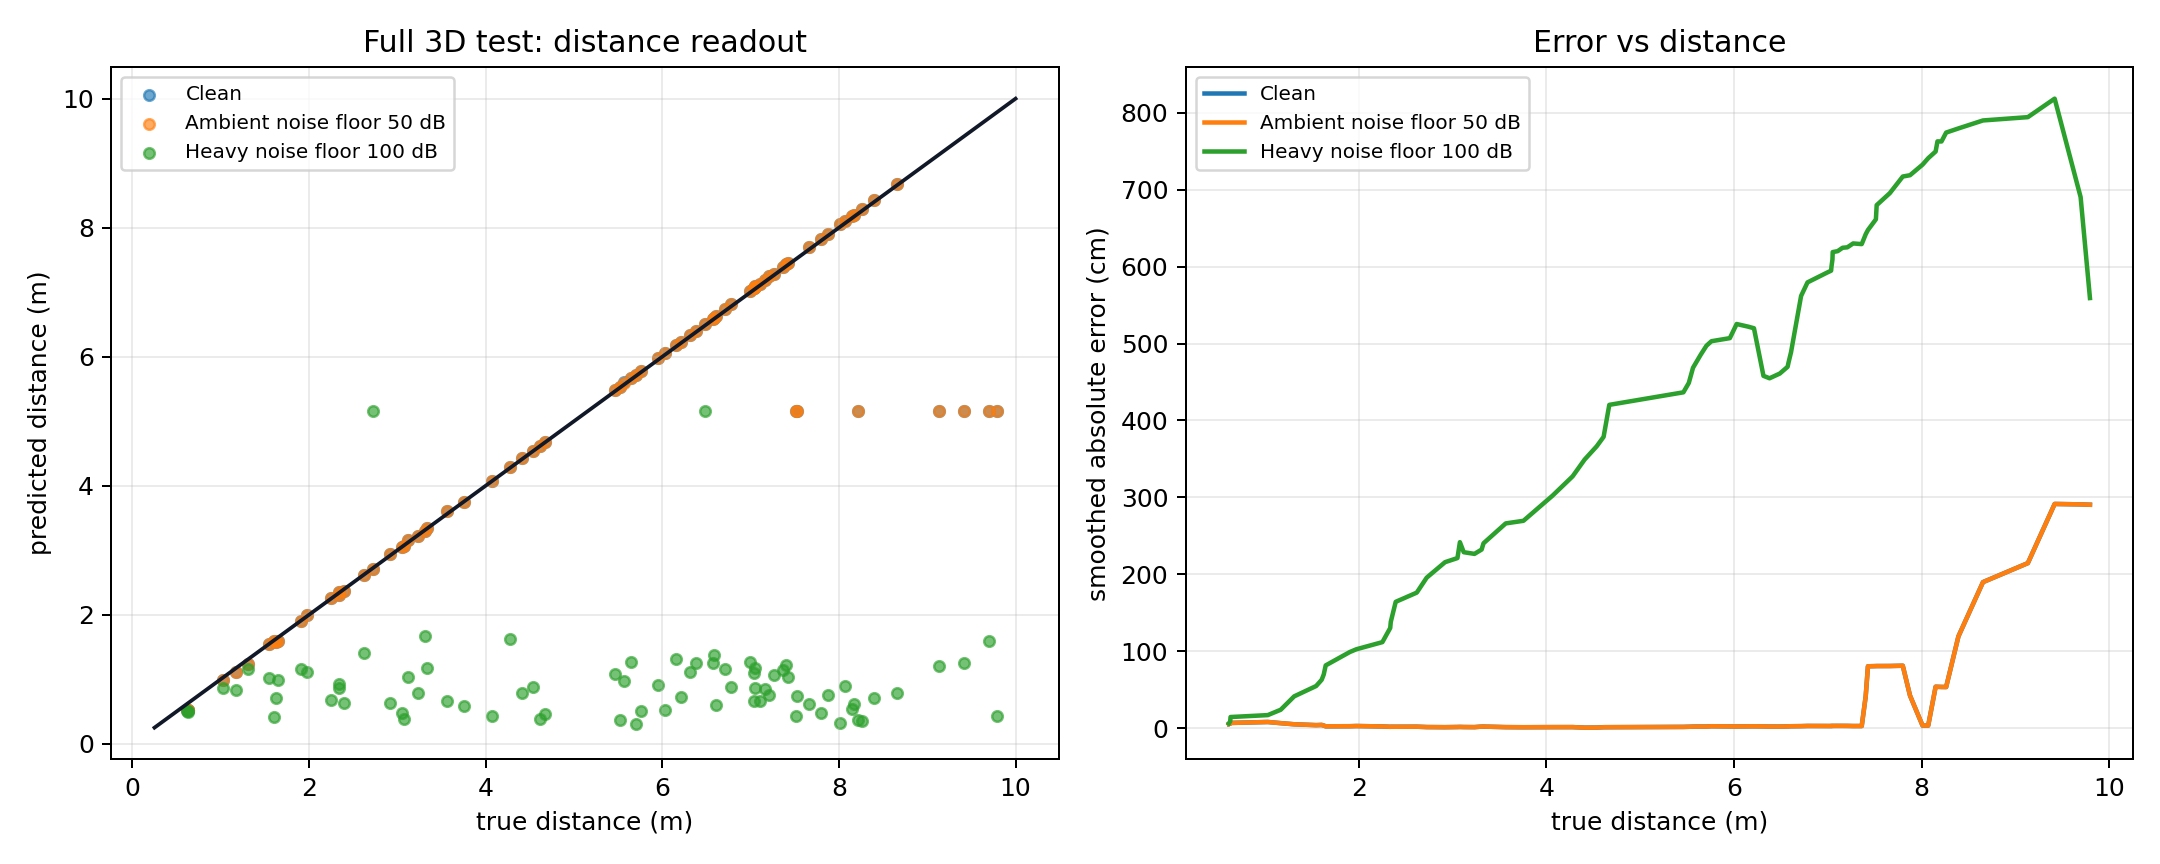
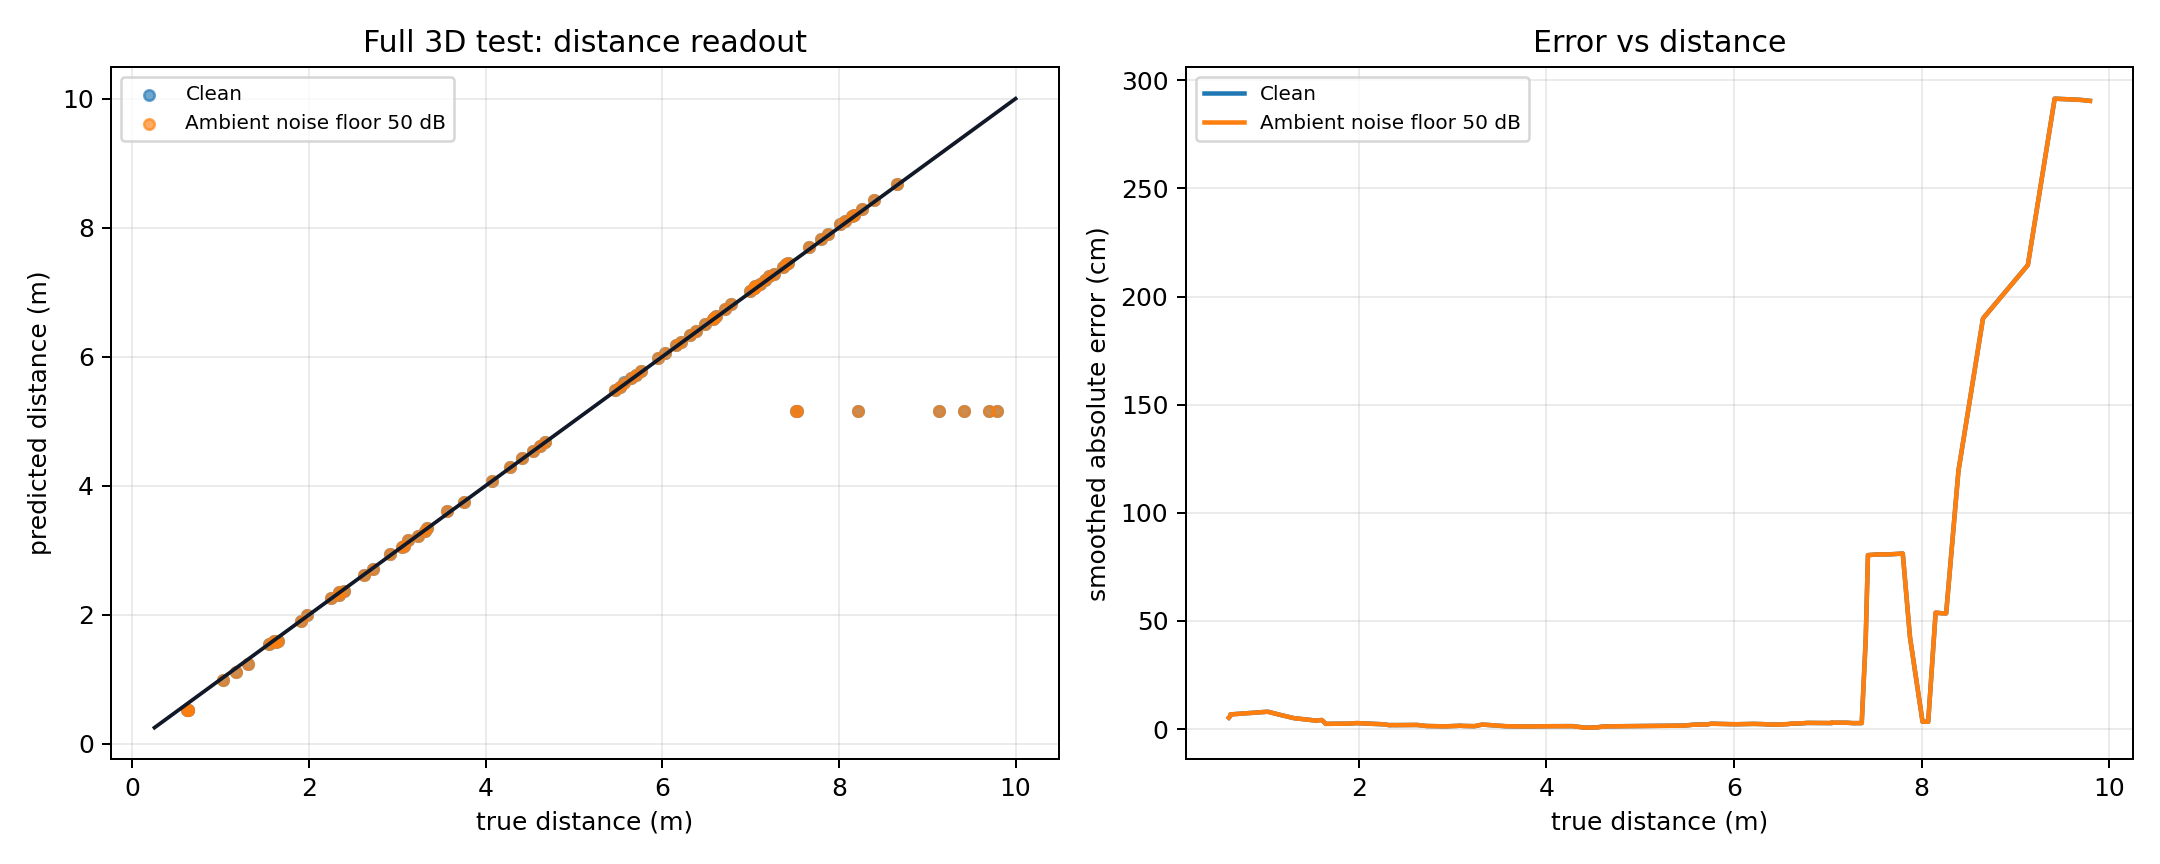
full test maybe final

diff --git a/distance_pathway/experiments/full_distance_pathway_model.py b/distance_pathway/experiments/full_distance_pathway_model.py
@@ -56,7 +56,6 @@ FULL_TEST_ELEVATION_LIMIT_DEG = 45.0
 REFERENCE_DB_SPL = 80.0
 CALL_DB_SPL = 140.0
 AMBIENT_NOISE_DB_SPL = 50.0
-HEAVY_NOISE_DB_SPL = 100.0
 REFERENCE_DISTANCE_M = 2.5
 RNG_SEED = 44
 LATENCY_CALIBRATION_DISTANCES_M = np.linspace(MIN_DISTANCE_M, MAX_DISTANCE_M, 12)
@@ -1211,6 +1210,25 @@ def _metrics(predictions: list[PathwayPrediction]) -> dict[str, float]:
     }
 
 
+def _distance_metrics_from_arrays(true: np.ndarray, pred: np.ndarray) -> dict[str, float]:
+    """Calculate distance metrics from true and predicted distance arrays.
+
+    Args:
+        true: True distances in metres.
+        pred: Predicted distances in metres.
+
+    Returns:
+        Scalar error metrics in metres.
+    """
+    error = pred - true
+    return {
+        "mae_m": float(np.mean(np.abs(error))),
+        "rmse_m": float(np.sqrt(np.mean(error**2))),
+        "max_abs_error_m": float(np.max(np.abs(error))),
+        "bias_m": float(np.mean(error)),
+    }
+
+
 def _noise_std_from_db(noise_db_spl: float) -> float:
     """Convert an effective dB SPL value to waveform noise standard deviation.
 
@@ -1287,6 +1305,7 @@ def _run_full_space_test(base_variant: PathwayVariant) -> dict[str, object]:
     Returns:
         Full-test metrics and predictions for clean and fixed-noise conditions.
     """
+    full_test_start = time.perf_counter()
     rng = np.random.default_rng(RNG_SEED + 50_000)
     distances = rng.uniform(MIN_DISTANCE_M, FULL_TEST_MAX_DISTANCE_M, size=FULL_TEST_SAMPLES)
     azimuths = rng.uniform(-FULL_TEST_AZIMUTH_LIMIT_DEG, FULL_TEST_AZIMUTH_LIMIT_DEG, size=FULL_TEST_SAMPLES)
@@ -1304,12 +1323,13 @@ def _run_full_space_test(base_variant: PathwayVariant) -> dict[str, object]:
     condition_specs = [
         ("Clean", None, 0.0),
         ("Ambient noise floor 50 dB", AMBIENT_NOISE_DB_SPL, _noise_std_from_db(AMBIENT_NOISE_DB_SPL)),
-        ("Heavy noise floor 100 dB", HEAVY_NOISE_DB_SPL, _noise_std_from_db(HEAVY_NOISE_DB_SPL)),
     ]
     conditions = []
+    condition_prediction_seconds = 0.0
     for condition_index, (name, noise_db, noise_std) in enumerate(condition_specs):
         config = _make_full_test_config(noise_std=noise_std)
         torch.manual_seed(RNG_SEED + 60_000 + condition_index)
+        condition_start = time.perf_counter()
         predictions = [
             _predict_one_3d(
                 config,
@@ -1321,19 +1341,39 @@ def _run_full_space_test(base_variant: PathwayVariant) -> dict[str, object]:
             )
             for distance, azimuth, elevation in zip(distances, azimuths, elevations)
         ]
-        metrics = _metrics(predictions)
+        condition_seconds = time.perf_counter() - condition_start
+        condition_prediction_seconds += condition_seconds
+        true = np.array([prediction.distance_m for prediction in predictions], dtype=np.float64)
+        pred = np.array([prediction.predicted_distance_m for prediction in predictions], dtype=np.float64)
+        subset_metrics = {
+            "up_to_5m": {
+                "num_samples": int(np.count_nonzero(true <= MAX_DISTANCE_M)),
+                "metrics": _distance_metrics_from_arrays(true[true <= MAX_DISTANCE_M], pred[true <= MAX_DISTANCE_M]),
+            },
+            "up_to_10m": {
+                "num_samples": int(true.size),
+                "metrics": _distance_metrics_from_arrays(true, pred),
+            },
+        }
         conditions.append(
             {
                 "name": name,
                 "noise_db_spl": noise_db,
                 "noise_std": noise_std,
-                "metrics": metrics,
-                "true_distance_m": [float(prediction.distance_m) for prediction in predictions],
-                "predicted_distance_m": [float(prediction.predicted_distance_m) for prediction in predictions],
+                "prediction_seconds": condition_seconds,
+                "seconds_per_sample": condition_seconds / max(1, len(predictions)),
+                "metrics": subset_metrics["up_to_10m"]["metrics"],
+                "subset_metrics": subset_metrics,
+                "true_distance_m": true.tolist(),
+                "predicted_distance_m": pred.tolist(),
             }
         )
+    total_predictions = FULL_TEST_SAMPLES * len(condition_specs)
+    full_test_seconds = time.perf_counter() - full_test_start
     return {
         "num_samples": FULL_TEST_SAMPLES,
+        "num_conditions": len(condition_specs),
+        "total_predictions": total_predictions,
         "distance_range_m": [MIN_DISTANCE_M, FULL_TEST_MAX_DISTANCE_M],
         "azimuth_range_deg": [-FULL_TEST_AZIMUTH_LIMIT_DEG, FULL_TEST_AZIMUTH_LIMIT_DEG],
         "elevation_range_deg": [-FULL_TEST_ELEVATION_LIMIT_DEG, FULL_TEST_ELEVATION_LIMIT_DEG],
@@ -1344,6 +1384,10 @@ def _run_full_space_test(base_variant: PathwayVariant) -> dict[str, object]:
         "reference_db_spl": REFERENCE_DB_SPL,
         "latency_min_samples": int(full_latency.min()),
         "latency_max_samples": int(full_latency.max()),
+        "full_test_seconds": full_test_seconds,
+        "prediction_seconds": condition_prediction_seconds,
+        "prediction_seconds_per_sample": condition_prediction_seconds / max(1, total_predictions),
+        "full_test_seconds_per_sample_including_calibration": full_test_seconds / max(1, total_predictions),
         "conditions": conditions,
     }
 
@@ -1492,16 +1536,22 @@ def _write_report(
     full_test_rows = []
     for condition in full_test["conditions"]:
         noise_label = "clean" if condition["noise_db_spl"] is None else f"{condition['noise_db_spl']:.0f} dB"
-        full_test_rows.append(
-            "| "
-            f"{condition['name']} | "
-            f"{noise_label} | "
-            f"`{condition['noise_std']:.6g}` | "
-            f"`{condition['metrics']['mae_m'] * 100.0:.3f} cm` | "
-            f"`{condition['metrics']['rmse_m'] * 100.0:.3f} cm` | "
-            f"`{condition['metrics']['max_abs_error_m'] * 100.0:.3f} cm` | "
-            f"`{condition['metrics']['bias_m'] * 100.0:.3f} cm` |"
-        )
+        for range_key, range_label in [("up_to_5m", "<=5 m"), ("up_to_10m", "<=10 m")]:
+            subset = condition["subset_metrics"][range_key]
+            metrics = subset["metrics"]
+            full_test_rows.append(
+                "| "
+                f"{condition['name']} | "
+                f"{range_label} | "
+                f"`{subset['num_samples']}` | "
+                f"{noise_label} | "
+                f"`{condition['noise_std']:.6g}` | "
+                f"`{metrics['mae_m'] * 100.0:.3f} cm` | "
+                f"`{metrics['rmse_m'] * 100.0:.3f} cm` | "
+                f"`{metrics['max_abs_error_m'] * 100.0:.3f} cm` | "
+                f"`{metrics['bias_m'] * 100.0:.3f} cm` | "
+                f"`{condition['seconds_per_sample'] * 1_000.0:.2f} ms` |"
+            )
     lines = [
         "# Full Distance Pathway Model",
         "",
@@ -1741,15 +1791,17 @@ def _write_report(
         "",
         "The 3D simulation includes binaural path-length differences, ITD, ILD/head-shadow gain, inverse-square attenuation, and the elevation spectral notch/slope filter. The previously rejected azimuth spectral-notch cue is not enabled; azimuth affects this distance test through binaural geometry and head-shadow rather than an extra spectral notch.",
         "",
-        "Noise floors are fixed receiver noise levels, not re-normalised per target distance. This means farther echoes have lower effective SNR, which is the intended stress test.",
+        "Noise floors are fixed receiver noise levels, not re-normalised per target distance. This means farther echoes have lower effective SNR, which is the intended stress test. The 100 dB stress case has been removed from this table so the comparison focuses on clean behaviour and a realistic low ambient floor.",
+        "",
+        f"Full-test prediction runtime was `{full_test['prediction_seconds']:.2f} s` for `{full_test['total_predictions']}` predictions, or `{full_test['prediction_seconds_per_sample'] * 1_000.0:.2f} ms/sample`. Including the one-off latency calibration for this 10 m setup, the full-test block took `{full_test['full_test_seconds']:.2f} s`, or `{full_test['full_test_seconds_per_sample_including_calibration'] * 1_000.0:.2f} ms/sample`.",
         "",
         "![Full test accuracy](../outputs/full_distance_pathway/figures/full_test_accuracy.png)",
         "",
-        "| Condition | Noise floor | Noise std | MAE | RMSE | Max abs error | Bias |",
-        "|---|---:|---:|---:|---:|---:|---:|",
+        "| Condition | Range subset | N | Noise floor | Noise std | MAE | RMSE | Max abs error | Bias | Runtime/sample |",
+        "|---|---|---:|---:|---:|---:|---:|---:|---:|---:|",
         *full_test_rows,
         "",
-        "The clean and 50 dB ambient-noise results are almost identical, which means the low fixed ambient floor is not the limiting factor here. The larger error is already present in the clean 3D expanded-space condition, so the current distance pathway is being stressed mainly by the wider 10 m support and angular/binaural cue variation. The 100 dB fixed noise floor is severe and collapses many predictions toward short distances, which is visible as a large negative bias.",
+        "The clean and 50 dB ambient-noise results are almost identical, which means the low fixed ambient floor is not the limiting factor here. The gap between the `<=5 m` and `<=10 m` rows shows that the current distance pathway is being stressed mainly by the wider 10 m support and angular/binaural cue variation.",
         "",
         "## Causality Update",
         "",

diff --git a/distance_pathway/reports/full_distance_pathway_model.md b/distance_pathway/reports/full_distance_pathway_model.md
@@ -207,17 +207,20 @@ The signal setup is the matched-human call: `64000 Hz` sample rate, `3.0 ms` chi
 
 The 3D simulation includes binaural path-length differences, ITD, ILD/head-shadow gain, inverse-square attenuation, and the elevation spectral notch/slope filter. The previously rejected azimuth spectral-notch cue is not enabled; azimuth affects this distance test through binaural geometry and head-shadow rather than an extra spectral notch.
 
-Noise floors are fixed receiver noise levels, not re-normalised per target distance. This means farther echoes have lower effective SNR, which is the intended stress test.
+Noise floors are fixed receiver noise levels, not re-normalised per target distance. This means farther echoes have lower effective SNR, which is the intended stress test. The 100 dB stress case has been removed from this table so the comparison focuses on clean behaviour and a realistic low ambient floor.
+
+Full-test prediction runtime was `8.72 s` for `160` predictions, or `54.49 ms/sample`. Including the one-off latency calibration for this 10 m setup, the full-test block took `9.30 s`, or `58.13 ms/sample`.
 
 ![Full test accuracy](../outputs/full_distance_pathway/figures/full_test_accuracy.png)
 
-| Condition | Noise floor | Noise std | MAE | RMSE | Max abs error | Bias |
-|---|---:|---:|---:|---:|---:|---:|
-| Clean | clean | `0` | `34.041 cm` | `110.014 cm` | `464.131 cm` | `-30.829 cm` |
-| Ambient noise floor 50 dB | 50 dB | `0.0316228` | `34.040 cm` | `110.014 cm` | `464.131 cm` | `-30.828 cm` |
-| Heavy noise floor 100 dB | 100 dB | `10` | `442.394 cm` | `510.774 cm` | `935.522 cm` | `-436.324 cm` |
+| Condition | Range subset | N | Noise floor | Noise std | MAE | RMSE | Max abs error | Bias | Runtime/sample |
+|---|---|---:|---:|---:|---:|---:|---:|---:|---:|
+| Clean | <=5 m | `33` | clean | `0` | `2.831 cm` | `4.167 cm` | `11.500 cm` | `-1.611 cm` | `36.44 ms` |
+| Clean | <=10 m | `80` | clean | `0` | `34.041 cm` | `110.014 cm` | `464.131 cm` | `-30.829 cm` | `36.44 ms` |
+| Ambient noise floor 50 dB | <=5 m | `33` | 50 dB | `0.0316228` | `2.826 cm` | `4.164 cm` | `11.500 cm` | `-1.612 cm` | `72.53 ms` |
+| Ambient noise floor 50 dB | <=10 m | `80` | 50 dB | `0.0316228` | `34.040 cm` | `110.014 cm` | `464.131 cm` | `-30.828 cm` | `72.53 ms` |
 
-The clean and 50 dB ambient-noise results are almost identical, which means the low fixed ambient floor is not the limiting factor here. The larger error is already present in the clean 3D expanded-space condition, so the current distance pathway is being stressed mainly by the wider 10 m support and angular/binaural cue variation. The 100 dB fixed noise floor is severe and collapses many predictions toward short distances, which is visible as a large negative bias.
+The clean and 50 dB ambient-noise results are almost identical, which means the low fixed ambient floor is not the limiting factor here. The gap between the `<=5 m` and `<=10 m` rows shows that the current distance pathway is being stressed mainly by the wider 10 m support and angular/binaural cue variation.
 
 ## Causality Update
 
@@ -241,4 +244,4 @@ The previous prototype subtracted the latency vector from echo onsets, which cou
 - `full_test_accuracy`: `distance_pathway/outputs/full_distance_pathway/figures/full_test_accuracy.png`
 - `results`: `distance_pathway/outputs/full_distance_pathway/results.json`
 
-Runtime: `40.51 s`.
+Runtime: `31.68 s`.
